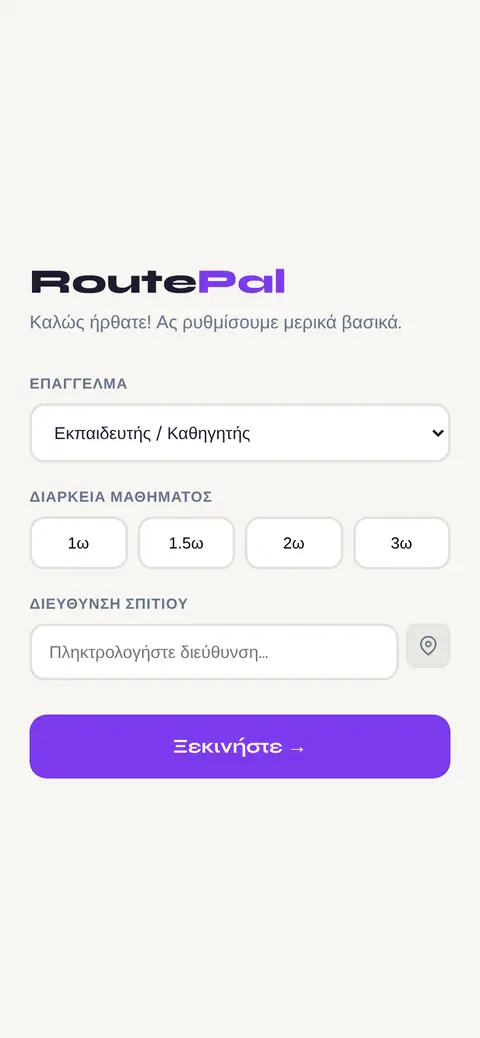
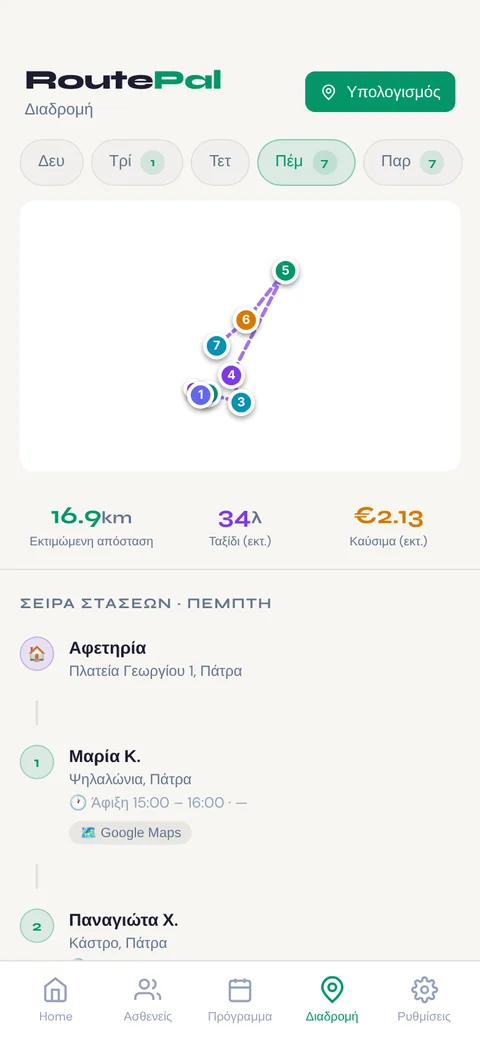
Πραγματικά demo screenshots για RoutePal και Cash Flow
Τα στιγμιότυπα βγήκαν τρέχοντας τις εφαρμογές με ρεαλιστικά δεδομένα:
RoutePal με 10 επισκέψεις σε γειτονιές της Πάτρας (διαδρομή Πέμπτης,
16,9 km) και Cash Flow με έναν μήνα ραντεβού, εσόδων και εξόδων.

Claude-Session: https://claude.ai/code/session_01VayiiR8T1JaV2HPcqadAVL

diff --git a/el/work.html b/el/work.html
@@ -22,7 +22,7 @@
 <link rel="icon" type="image/svg+xml" href="../logo/pg-icon.svg">
 <link rel="apple-touch-icon" href="../assets/apple-touch-icon.png">
 <link rel="preload" href="../assets/fonts/notodisplay-greek-var.woff2" as="font" type="font/woff2" crossorigin>
-<link rel="stylesheet" href="../assets/site.css?v=4">
+<link rel="stylesheet" href="../assets/site.css?v=5">
 </head>
 <body>
 <a class="skip" href="#main">Μετάβαση στο περιεχόμενο</a>
@@ -37,11 +37,11 @@
 <nav class="nav" aria-label="Main"><a href="./" class="hide-s">Αρχική</a><a href="services.html">Υπηρεσίες</a><a href="work.html" aria-current="page">Έργα</a><a href="studio.html">Studio</a><a href="#contact" class="hide-s">Επικοινωνία</a><a class="lang" href="../work.html" hreflang="en" lang="en">EN</a></nav>
 </div></header>
 <main id="main">
-<section class="intro"><div class="wrap"><span class="eyebrow">Έργα</span><h1 class="h1">Τι <em>φτιάξαμε.</em></h1><p class="lead">Κάθε έργο ξεκίνησε από ένα πραγματικό πρόβλημα. Εδώ είναι τι κάνει και πώς.</p></div></section><section><div class="wrap"><article class="proj" id="routepal"><div class="pshot"><img src="../assets/work/routepal.webp" width="480" height="1038" alt="RoutePal" loading="lazy" decoding="async"></div>
-<div class="pbody"><span class="eyebrow">Βελτιστοποίηση διαδρομών</span><h2 class="h2">RoutePal</h2><span class="status live">Live</span><p class="lead">Οργανώνει μια ολόκληρη εβδομάδα ραντεβού και επισκέψεων: ποιος, πότε, με ποια σειρά, με πραγματικούς χρόνους δρόμου. Από κάτω τρέχει μηχανή βελτιστοποίησης πολλών φάσεων για δρομολόγηση με χρονικά παράθυρα (VRPTW).</p><div class="stats"><div><b>9</b><span>φάσεις βελτιστοποίησης</span></div><div><b>175</b><span>αυτόματα τεστ</span></div><div><b>4</b><span>γλώσσες</span></div></div><ul class="plist"><li>Εβδομαδιαίο πρόγραμμα ή μία μέρα, με βάση τα διαθέσιμα διαστήματα κάθε πελάτη και σπαστά ωράρια</li><li>Μηχανή πολλών φάσεων: backtracking αναζήτηση περιορισμών, simulated annealing και large neighborhood search (LNS)</li><li>Πραγματικές αποστάσεις και χρόνοι δρόμου (OSRM/HERE), με κίνηση ώρας αιχμής ανά ραντεβού</li><li>Μετρημένο στα VRPTW προβλήματα του Solomon απέναντι στις καλύτερες δημοσιευμένες λύσεις και σε ακριβή βέλτιστα (Held-Karp)</li><li>Ομαδικά ραντεβού και ζευγάρια, χάρτης με πλοήγηση, εξαγωγή PDF, εγκατάσταση στο κινητό</li></ul><div class="tags"><span>VRPTW</span><span>Simulated annealing</span><span>LNS</span><span>PWA</span></div><p><a class="btn line" href="https://pangeo57-debug.github.io/routiq/routiq.html" target="_blank" rel="noopener">Δείτε το live <i aria-hidden="true">↗</i></a></p></div></article><article class="proj" id="surplo"><div class="pshot"><img src="../assets/work/surplo.webp" width="480" height="1038" alt="Surplo" loading="lazy" decoding="async"></div>
-<div class="pbody"><span class="eyebrow">Αγορά B2B</span><h2 class="h2">Surplo</h2><span class="status">Σε ανάπτυξη · demo κατόπιν αιτήματος</span><p class="lead">Αγορά όπου μικρές επιχειρήσεις πουλάνε πλεονάζον και αδιάθετο απόθεμα σε άλλες επιχειρήσεις, με την πληρωμή σε escrow μέχρι να φτάσει το εμπόρευμα.</p><ul class="plist"><li>Μόνιμα αιτήματα αγοράς: ο αγοραστής δηλώνει τι θέλει, ο πωλητής το καλύπτει με ένα κλικ</li><li>Προσφορές και αντιπροσφορές, μετά πληρωμή σε escrow (κάρτα, Apple/Google Pay, PayPal, SEPA)</li><li>Ο πωλητής πληρώνεται μόνο όταν ο αγοραστής επιβεβαιώσει την παραλαβή· οι διαφορές πάνε σε διαχειριστή</li><li>Επαλήθευση επιχειρήσεων, αξιολογήσεις και ροή παραγγελιών με πλήρες ιστορικό</li><li>Web εφαρμογή και native εφαρμογή iOS (Capacitor)</li></ul><div class="tags"><span>Next.js</span><span>Stripe Connect</span><span>Postgres</span><span>iOS</span></div></div></article><article class="proj" id="cashflow"><div class="pshot"><img src="../assets/work/cashflow.webp" width="480" height="1038" alt="Cash Flow" loading="lazy" decoding="async"></div>
-<div class="pbody"><span class="eyebrow">Mini app</span><h2 class="h2">Cash Flow</h2><span class="status">Ιδιωτική εφαρμογή · demo κατόπιν αιτήματος</span><p class="lead">Εφαρμογή προσωπικών οικονομικών: έσοδα και έξοδα με δύο πατήματα, καθαρά στατιστικά και δεδομένα που μένουν στο κινητό, ακόμα και offline.</p><ul class="plist"><li>Έσοδα και έξοδα με δύο πατήματα, ανά κατηγορία</li><li>Επαναλαμβανόμενες πληρωμές, μηνιαίοι στόχοι και budgets</li><li>Στατιστικά και έξυπνες παρατηρήσεις</li><li>Λειτουργεί offline· τα δεδομένα μένουν στη συσκευή, με αντίγραφο JSON</li><li>Προαιρετικός συγχρονισμός μέσω Supabase</li></ul><div class="tags"><span>React</span><span>TypeScript</span><span>PWA</span></div></div></article><article class="proj" id="cooking"><div class="pshot"><img src="../assets/work/cooking.webp" width="480" height="1038" alt="Cooking Made with Love" loading="lazy" decoding="async"></div>
-<div class="pbody"><span class="eyebrow">Ιστοσελίδα</span><h2 class="h2">Cooking Made with Love</h2><span class="status live">Live</span><p class="lead">Ιστοσελίδα για οικιακό φούρνο που πουλάει χειροποίητο ψωμί και γλυκά σε λαϊκή αγορά στο Michigan.</p><ul class="plist"><li>Κατάλογος προϊόντων: ψωμιά, γλυκά και αρτοσκευάσματα</li><li>Τοποθεσία της αγοράς με σύνδεσμο στο Google Maps</li><li>Εικόνα προεπισκόπησης για κοινοποίηση στα social</li><li>Ανεβαίνει αυτόματα σε κάθε αλλαγή (Netlify)</li></ul><div class="tags"><span>HTML · CSS · JS</span><span>SEO</span><span>Netlify</span></div><p><a class="btn line" href="https://cookingmadewithlove.netlify.app/" target="_blank" rel="noopener">Δείτε το live <i aria-hidden="true">↗</i></a></p></div></article><article class="proj" id="mathdecoded"><div class="pshot"><img src="../assets/work/mathdecoded.webp" width="480" height="1038" alt="MathDecoded" loading="lazy" decoding="async"></div>
+<section class="intro"><div class="wrap"><span class="eyebrow">Έργα</span><h1 class="h1">Τι <em>φτιάξαμε.</em></h1><p class="lead">Κάθε έργο ξεκίνησε από ένα πραγματικό πρόβλημα. Εδώ είναι τι κάνει και πώς.</p></div></section><section><div class="wrap"><article class="proj" id="routepal"><div class="pshot"><img src="../assets/work/routepal.webp?v=5" width="480" height="1038" alt="RoutePal" loading="lazy" decoding="async"></div>
+<div class="pbody"><span class="eyebrow">Βελτιστοποίηση διαδρομών</span><h2 class="h2">RoutePal</h2><span class="status live">Live</span><p class="lead">Οργανώνει μια ολόκληρη εβδομάδα ραντεβού και επισκέψεων: ποιος, πότε, με ποια σειρά, με πραγματικούς χρόνους δρόμου. Από κάτω τρέχει μηχανή βελτιστοποίησης πολλών φάσεων για δρομολόγηση με χρονικά παράθυρα (VRPTW).</p><div class="stats"><div><b>9</b><span>φάσεις βελτιστοποίησης</span></div><div><b>175</b><span>αυτόματα τεστ</span></div><div><b>4</b><span>γλώσσες</span></div></div><ul class="plist"><li>Εβδομαδιαίο πρόγραμμα ή μία μέρα, με βάση τα διαθέσιμα διαστήματα κάθε πελάτη και σπαστά ωράρια</li><li>Μηχανή πολλών φάσεων: backtracking αναζήτηση περιορισμών, simulated annealing και large neighborhood search (LNS)</li><li>Πραγματικές αποστάσεις και χρόνοι δρόμου (OSRM/HERE), με κίνηση ώρας αιχμής ανά ραντεβού</li><li>Μετρημένο στα VRPTW προβλήματα του Solomon απέναντι στις καλύτερες δημοσιευμένες λύσεις και σε ακριβή βέλτιστα (Held-Karp)</li><li>Ομαδικά ραντεβού και ζευγάρια, χάρτης με πλοήγηση, εξαγωγή PDF, εγκατάσταση στο κινητό</li></ul><div class="tags"><span>VRPTW</span><span>Simulated annealing</span><span>LNS</span><span>PWA</span></div><p><a class="btn line" href="https://pangeo57-debug.github.io/routiq/routiq.html" target="_blank" rel="noopener">Δείτε το live <i aria-hidden="true">↗</i></a></p></div></article><article class="proj" id="surplo"><div class="pshot"><img src="../assets/work/surplo.webp?v=5" width="480" height="1038" alt="Surplo" loading="lazy" decoding="async"></div>
+<div class="pbody"><span class="eyebrow">Αγορά B2B</span><h2 class="h2">Surplo</h2><span class="status">Σε ανάπτυξη · demo κατόπιν αιτήματος</span><p class="lead">Αγορά όπου μικρές επιχειρήσεις πουλάνε πλεονάζον και αδιάθετο απόθεμα σε άλλες επιχειρήσεις, με την πληρωμή σε escrow μέχρι να φτάσει το εμπόρευμα.</p><ul class="plist"><li>Μόνιμα αιτήματα αγοράς: ο αγοραστής δηλώνει τι θέλει, ο πωλητής το καλύπτει με ένα κλικ</li><li>Προσφορές και αντιπροσφορές, μετά πληρωμή σε escrow (κάρτα, Apple/Google Pay, PayPal, SEPA)</li><li>Ο πωλητής πληρώνεται μόνο όταν ο αγοραστής επιβεβαιώσει την παραλαβή· οι διαφορές πάνε σε διαχειριστή</li><li>Επαλήθευση επιχειρήσεων, αξιολογήσεις και ροή παραγγελιών με πλήρες ιστορικό</li><li>Web εφαρμογή και native εφαρμογή iOS (Capacitor)</li></ul><div class="tags"><span>Next.js</span><span>Stripe Connect</span><span>Postgres</span><span>iOS</span></div></div></article><article class="proj" id="cashflow"><div class="pshot"><img src="../assets/work/cashflow.webp?v=5" width="480" height="1038" alt="Cash Flow" loading="lazy" decoding="async"></div>
+<div class="pbody"><span class="eyebrow">Mini app</span><h2 class="h2">Cash Flow</h2><span class="status">Ιδιωτική εφαρμογή · demo κατόπιν αιτήματος</span><p class="lead">Εφαρμογή προσωπικών οικονομικών: έσοδα και έξοδα με δύο πατήματα, καθαρά στατιστικά και δεδομένα που μένουν στο κινητό, ακόμα και offline.</p><ul class="plist"><li>Έσοδα και έξοδα με δύο πατήματα, ανά κατηγορία</li><li>Επαναλαμβανόμενες πληρωμές, μηνιαίοι στόχοι και budgets</li><li>Στατιστικά και έξυπνες παρατηρήσεις</li><li>Λειτουργεί offline· τα δεδομένα μένουν στη συσκευή, με αντίγραφο JSON</li><li>Προαιρετικός συγχρονισμός μέσω Supabase</li></ul><div class="tags"><span>React</span><span>TypeScript</span><span>PWA</span></div></div></article><article class="proj" id="cooking"><div class="pshot"><img src="../assets/work/cooking.webp?v=5" width="480" height="1038" alt="Cooking Made with Love" loading="lazy" decoding="async"></div>
+<div class="pbody"><span class="eyebrow">Ιστοσελίδα</span><h2 class="h2">Cooking Made with Love</h2><span class="status live">Live</span><p class="lead">Ιστοσελίδα για οικιακό φούρνο που πουλάει χειροποίητο ψωμί και γλυκά σε λαϊκή αγορά στο Michigan.</p><ul class="plist"><li>Κατάλογος προϊόντων: ψωμιά, γλυκά και αρτοσκευάσματα</li><li>Τοποθεσία της αγοράς με σύνδεσμο στο Google Maps</li><li>Εικόνα προεπισκόπησης για κοινοποίηση στα social</li><li>Ανεβαίνει αυτόματα σε κάθε αλλαγή (Netlify)</li></ul><div class="tags"><span>HTML · CSS · JS</span><span>SEO</span><span>Netlify</span></div><p><a class="btn line" href="https://cookingmadewithlove.netlify.app/" target="_blank" rel="noopener">Δείτε το live <i aria-hidden="true">↗</i></a></p></div></article><article class="proj" id="mathdecoded"><div class="pshot"><img src="../assets/work/mathdecoded.webp?v=5" width="480" height="1038" alt="MathDecoded" loading="lazy" decoding="async"></div>
 <div class="pbody"><span class="eyebrow">Ιστοσελίδα + εφαρμογή</span><h2 class="h2">MathDecoded</h2><span class="status live">Live</span><p class="lead">Σελίδα για ιδιαίτερα μαθήματα μαθηματικών (SAT και Πανελλήνιες) με ασκήσεις, γρίφους και quiz, που εγκαθίσταται στο κινητό.</p><ul class="plist"><li>Ασκήσεις, γρίφοι και quiz που κρατούν την πρόοδο</li><li>Εγκαθίσταται στο κινητό σαν εφαρμογή (PWA)</li><li>Ταυτότητα βασισμένη στο υπάρχον Instagram</li><li>Σελίδες πολιτικής απορρήτου και όρων χρήσης</li></ul><div class="tags"><span>PWA</span><span>HTML · CSS · JS</span><span>GitHub Pages</span></div><p><a class="btn line" href="https://pangeo57-debug.github.io/mathdecoded/" target="_blank" rel="noopener">Δείτε το live <i aria-hidden="true">↗</i></a></p></div></article></div></section>
 </main>
 <section class="contact" id="contact" aria-labelledby="c-h"><div class="wrap">
@@ -56,6 +56,6 @@
 <button class="btn" type="submit"><span>Αποστολή μηνύματος</span> <i aria-hidden="true">→</i></button><p class="note" role="status" aria-live="polite"></p>
 </form></div></section>
 <footer class="ft"><div class="wrap"><span>© 2026 PG AI Solutions · Πάτρα, Ελλάδα</span><nav aria-label="Footer"><a href="services.html">Υπηρεσίες</a><a href="work.html">Έργα</a><a href="studio.html">Studio</a><a href="privacy.html">Πολιτική απορρήτου</a></nav></div></footer>
-<script src="../assets/site.js?v=4" defer></script>
+<script src="../assets/site.js?v=5" defer></script>
 </body>
 </html>

diff --git a/work.html b/work.html
@@ -22,7 +22,7 @@
 <link rel="icon" type="image/svg+xml" href="logo/pg-icon.svg">
 <link rel="apple-touch-icon" href="assets/apple-touch-icon.png">
 <link rel="preload" href="assets/fonts/notodisplay-latin-var.woff2" as="font" type="font/woff2" crossorigin>
-<link rel="stylesheet" href="assets/site.css?v=4">
+<link rel="stylesheet" href="assets/site.css?v=5">
 </head>
 <body>
 <a class="skip" href="#main">Skip to content</a>
@@ -37,11 +37,11 @@
 <nav class="nav" aria-label="Main"><a href="./" class="hide-s">Home</a><a href="services.html">Services</a><a href="work.html" aria-current="page">Work</a><a href="studio.html">Studio</a><a href="#contact" class="hide-s">Contact</a><a class="lang" href="el/work.html" hreflang="el" lang="el">ΕΛ</a></nav>
 </div></header>
 <main id="main">
-<section class="intro"><div class="wrap"><span class="eyebrow">Work</span><h1 class="h1">Things we <em>built.</em></h1><p class="lead">Each project started as a real problem. Here is what it does and how.</p></div></section><section><div class="wrap"><article class="proj" id="routepal"><div class="pshot"><img src="assets/work/routepal.webp" width="480" height="1038" alt="RoutePal" loading="lazy" decoding="async"></div>
-<div class="pbody"><span class="eyebrow">Route optimization</span><h2 class="h2">RoutePal</h2><span class="status live">Live</span><p class="lead">Plans a whole week of appointments and visits: who, when and in what order, using real travel times. Underneath runs a multi-phase optimization engine for routing with time windows (VRPTW).</p><div class="stats"><div><b>9</b><span>optimization phases</span></div><div><b>175</b><span>automated tests</span></div><div><b>4</b><span>languages</span></div></div><ul class="plist"><li>Weekly or single-day plans, built from each client's available slots and split shifts</li><li>Multi-phase engine: constraint backtracking, simulated annealing and large neighbourhood search (LNS)</li><li>Real distances and drive times (OSRM/HERE), with rush-hour traffic per appointment</li><li>Benchmarked on Solomon VRPTW instances against best published and exact (Held-Karp) optima</li><li>Group and paired visits, map with navigation, PDF export, installs on the phone</li></ul><div class="tags"><span>VRPTW</span><span>Simulated annealing</span><span>LNS</span><span>PWA</span></div><p><a class="btn line" href="https://pangeo57-debug.github.io/routiq/routiq.html" target="_blank" rel="noopener">Visit live site <i aria-hidden="true">↗</i></a></p></div></article><article class="proj" id="surplo"><div class="pshot"><img src="assets/work/surplo.webp" width="480" height="1038" alt="Surplo" loading="lazy" decoding="async"></div>
-<div class="pbody"><span class="eyebrow">B2B marketplace</span><h2 class="h2">Surplo</h2><span class="status">In development · demo on request</span><p class="lead">A marketplace where small businesses sell surplus and unsold stock to other businesses, with payment held in escrow until the goods arrive.</p><ul class="plist"><li>Standing buy requests: the buyer says what they need, a seller fills it in one click</li><li>Offers and counter-offers, then escrow payment (card, Apple/Google Pay, PayPal, SEPA)</li><li>The seller is paid only when the buyer confirms delivery; disputes go to an admin</li><li>Business verification, reviews and an order flow with full history</li><li>Web app plus a native iOS app (Capacitor)</li></ul><div class="tags"><span>Next.js</span><span>Stripe Connect</span><span>Postgres</span><span>iOS</span></div></div></article><article class="proj" id="cashflow"><div class="pshot"><img src="assets/work/cashflow.webp" width="480" height="1038" alt="Cash Flow" loading="lazy" decoding="async"></div>
-<div class="pbody"><span class="eyebrow">Mini app</span><h2 class="h2">Cash Flow</h2><span class="status">Private app · demo on request</span><p class="lead">A personal finance app: income and expenses in two taps, clear statistics, and data that stays on the phone, even offline.</p><ul class="plist"><li>Income and expenses in two taps, by category</li><li>Recurring payments, monthly goals and budgets</li><li>Statistics and smart insights</li><li>Works offline; data stays on the device, with a JSON backup</li><li>Optional sync through Supabase</li></ul><div class="tags"><span>React</span><span>TypeScript</span><span>PWA</span></div></div></article><article class="proj" id="cooking"><div class="pshot"><img src="assets/work/cooking.webp" width="480" height="1038" alt="Cooking Made with Love" loading="lazy" decoding="async"></div>
-<div class="pbody"><span class="eyebrow">Website</span><h2 class="h2">Cooking Made with Love</h2><span class="status live">Live</span><p class="lead">A website for a home bakery that sells handmade bread and pastries at a farmers' market in Michigan.</p><ul class="plist"><li>Product catalogue: breads, sweets and pastries</li><li>Market location with a Google Maps link</li><li>Share image for social media</li><li>Deploys automatically on every change (Netlify)</li></ul><div class="tags"><span>HTML · CSS · JS</span><span>SEO</span><span>Netlify</span></div><p><a class="btn line" href="https://cookingmadewithlove.netlify.app/" target="_blank" rel="noopener">Visit live site <i aria-hidden="true">↗</i></a></p></div></article><article class="proj" id="mathdecoded"><div class="pshot"><img src="assets/work/mathdecoded.webp" width="480" height="1038" alt="MathDecoded" loading="lazy" decoding="async"></div>
+<section class="intro"><div class="wrap"><span class="eyebrow">Work</span><h1 class="h1">Things we <em>built.</em></h1><p class="lead">Each project started as a real problem. Here is what it does and how.</p></div></section><section><div class="wrap"><article class="proj" id="routepal"><div class="pshot"><img src="assets/work/routepal.webp?v=5" width="480" height="1038" alt="RoutePal" loading="lazy" decoding="async"></div>
+<div class="pbody"><span class="eyebrow">Route optimization</span><h2 class="h2">RoutePal</h2><span class="status live">Live</span><p class="lead">Plans a whole week of appointments and visits: who, when and in what order, using real travel times. Underneath runs a multi-phase optimization engine for routing with time windows (VRPTW).</p><div class="stats"><div><b>9</b><span>optimization phases</span></div><div><b>175</b><span>automated tests</span></div><div><b>4</b><span>languages</span></div></div><ul class="plist"><li>Weekly or single-day plans, built from each client's available slots and split shifts</li><li>Multi-phase engine: constraint backtracking, simulated annealing and large neighbourhood search (LNS)</li><li>Real distances and drive times (OSRM/HERE), with rush-hour traffic per appointment</li><li>Benchmarked on Solomon VRPTW instances against best published and exact (Held-Karp) optima</li><li>Group and paired visits, map with navigation, PDF export, installs on the phone</li></ul><div class="tags"><span>VRPTW</span><span>Simulated annealing</span><span>LNS</span><span>PWA</span></div><p><a class="btn line" href="https://pangeo57-debug.github.io/routiq/routiq.html" target="_blank" rel="noopener">Visit live site <i aria-hidden="true">↗</i></a></p></div></article><article class="proj" id="surplo"><div class="pshot"><img src="assets/work/surplo.webp?v=5" width="480" height="1038" alt="Surplo" loading="lazy" decoding="async"></div>
+<div class="pbody"><span class="eyebrow">B2B marketplace</span><h2 class="h2">Surplo</h2><span class="status">In development · demo on request</span><p class="lead">A marketplace where small businesses sell surplus and unsold stock to other businesses, with payment held in escrow until the goods arrive.</p><ul class="plist"><li>Standing buy requests: the buyer says what they need, a seller fills it in one click</li><li>Offers and counter-offers, then escrow payment (card, Apple/Google Pay, PayPal, SEPA)</li><li>The seller is paid only when the buyer confirms delivery; disputes go to an admin</li><li>Business verification, reviews and an order flow with full history</li><li>Web app plus a native iOS app (Capacitor)</li></ul><div class="tags"><span>Next.js</span><span>Stripe Connect</span><span>Postgres</span><span>iOS</span></div></div></article><article class="proj" id="cashflow"><div class="pshot"><img src="assets/work/cashflow.webp?v=5" width="480" height="1038" alt="Cash Flow" loading="lazy" decoding="async"></div>
+<div class="pbody"><span class="eyebrow">Mini app</span><h2 class="h2">Cash Flow</h2><span class="status">Private app · demo on request</span><p class="lead">A personal finance app: income and expenses in two taps, clear statistics, and data that stays on the phone, even offline.</p><ul class="plist"><li>Income and expenses in two taps, by category</li><li>Recurring payments, monthly goals and budgets</li><li>Statistics and smart insights</li><li>Works offline; data stays on the device, with a JSON backup</li><li>Optional sync through Supabase</li></ul><div class="tags"><span>React</span><span>TypeScript</span><span>PWA</span></div></div></article><article class="proj" id="cooking"><div class="pshot"><img src="assets/work/cooking.webp?v=5" width="480" height="1038" alt="Cooking Made with Love" loading="lazy" decoding="async"></div>
+<div class="pbody"><span class="eyebrow">Website</span><h2 class="h2">Cooking Made with Love</h2><span class="status live">Live</span><p class="lead">A website for a home bakery that sells handmade bread and pastries at a farmers' market in Michigan.</p><ul class="plist"><li>Product catalogue: breads, sweets and pastries</li><li>Market location with a Google Maps link</li><li>Share image for social media</li><li>Deploys automatically on every change (Netlify)</li></ul><div class="tags"><span>HTML · CSS · JS</span><span>SEO</span><span>Netlify</span></div><p><a class="btn line" href="https://cookingmadewithlove.netlify.app/" target="_blank" rel="noopener">Visit live site <i aria-hidden="true">↗</i></a></p></div></article><article class="proj" id="mathdecoded"><div class="pshot"><img src="assets/work/mathdecoded.webp?v=5" width="480" height="1038" alt="MathDecoded" loading="lazy" decoding="async"></div>
 <div class="pbody"><span class="eyebrow">Website + app</span><h2 class="h2">MathDecoded</h2><span class="status live">Live</span><p class="lead">A site for private maths tutoring (SAT and Greek national exams) with exercises, puzzles and quizzes, installable on the phone.</p><ul class="plist"><li>Exercises, puzzles and quizzes that keep progress</li><li>Installs on the phone like an app (PWA)</li><li>Identity built on the existing Instagram</li><li>Privacy policy and terms of use pages</li></ul><div class="tags"><span>PWA</span><span>HTML · CSS · JS</span><span>GitHub Pages</span></div><p><a class="btn line" href="https://pangeo57-debug.github.io/mathdecoded/" target="_blank" rel="noopener">Visit live site <i aria-hidden="true">↗</i></a></p></div></article></div></section>
 </main>
 <section class="contact" id="contact" aria-labelledby="c-h"><div class="wrap">
@@ -56,6 +56,6 @@
 <button class="btn" type="submit"><span>Send message</span> <i aria-hidden="true">→</i></button><p class="note" role="status" aria-live="polite"></p>
 </form></div></section>
 <footer class="ft"><div class="wrap"><span>© 2026 PG AI Solutions · Patras, Greece</span><nav aria-label="Footer"><a href="services.html">Services</a><a href="work.html">Work</a><a href="studio.html">Studio</a><a href="privacy.html">Privacy policy</a></nav></div></footer>
-<script src="assets/site.js?v=4" defer></script>
+<script src="assets/site.js?v=5" defer></script>
 </body>
 </html>

diff --git a/el/index.html b/el/index.html
@@ -23,7 +23,7 @@
 <link rel="icon" type="image/svg+xml" href="../logo/pg-icon.svg">
 <link rel="apple-touch-icon" href="../assets/apple-touch-icon.png">
 <link rel="preload" href="../assets/fonts/notodisplay-greek-var.woff2" as="font" type="font/woff2" crossorigin>
-<link rel="stylesheet" href="../assets/site.css?v=4">
+<link rel="stylesheet" href="../assets/site.css?v=5">
 </head>
 <body>
 <a class="skip" href="#main">Μετάβαση στο περιεχόμενο</a>
@@ -43,7 +43,7 @@
 <div class="hero-act"><a class="txtlink" href="work.html">Δες τα έργα</a><a class="btn line" href="#contact">Ξεκινάμε <i aria-hidden="true">→</i></a></div>
 <div class="meta" aria-hidden="true"><span><b data-km>0.0</b> km</span><span><b data-gain>…</b> συντομότερη</span></div></div></div></section>
 <section class="sec"><div class="wrap"><div class="sec-head"><span class="eyebrow">Τι κάνουμε</span><h2 class="h2">Τρία πράγματα, <em>σωστά.</em></h2><p class="lead">Από μια γρήγορη ιστοσελίδα μέχρι λογισμικό που λύνει ένα δύσκολο πρόβλημα προγραμματισμού.</p></div><div class="rows"><a class="row" href="services.html#s1"><span class="n">01</span><h3 class="h3">Ιστοσελίδες</h3><p>Γρήγορες, custom ιστοσελίδες που παρουσιάζουν σωστά την επιχείρηση και βρίσκονται εύκολα στο Google.</p><span class="go" aria-hidden="true">→</span></a><a class="row" href="services.html#s2"><span class="n">02</span><h3 class="h3">Custom mini apps</h3><p>Μικρές, στοχευμένες εφαρμογές φτιαγμένες γύρω από τον τρόπο που δουλεύει ένας άνθρωπος ή μια ομάδα.</p><span class="go" aria-hidden="true">→</span></a><a class="row" href="services.html#s3"><span class="n">03</span><h3 class="h3">Λογισμικό & βελτιστοποίηση</h3><p>Εργαλεία προγραμματισμού, δρομολόγησης και αποφάσεων, χτισμένα σε σωστούς αλγορίθμους.</p><span class="go" aria-hidden="true">→</span></a></div></div></section>
-<section class="sec alt"><div class="wrap"><div class="sec-head"><span class="eyebrow">Επιλεγμένα έργα</span><h2 class="h2">Πέντε έργα. <em>Μία μέθοδος.</em></h2><p class="lead">Εφαρμογές και ιστοσελίδες σε λειτουργία και σε ανάπτυξη.</p></div><div class="strip"><a class="wcard" href="work.html#routepal"><span class="shot"><img src="../assets/work/routepal.webp" width="480" height="1038" alt="" loading="lazy" decoding="async"></span><small>Βελτιστοποίηση διαδρομών</small><b>RoutePal</b></a><a class="wcard" href="work.html#surplo"><span class="shot"><img src="../assets/work/surplo.webp" width="480" height="1038" alt="" loading="lazy" decoding="async"></span><small>Αγορά B2B</small><b>Surplo</b></a><a class="wcard" href="work.html#cashflow"><span class="shot"><img src="../assets/work/cashflow.webp" width="480" height="1038" alt="" loading="lazy" decoding="async"></span><small>Mini app</small><b>Cash Flow</b></a><a class="wcard" href="work.html#cooking"><span class="shot"><img src="../assets/work/cooking.webp" width="480" height="1038" alt="" loading="lazy" decoding="async"></span><small>Ιστοσελίδα</small><b>Cooking Made with Love</b></a><a class="wcard" href="work.html#mathdecoded"><span class="shot"><img src="../assets/work/mathdecoded.webp" width="480" height="1038" alt="" loading="lazy" decoding="async"></span><small>Ιστοσελίδα + εφαρμογή</small><b>MathDecoded</b></a></div><p style="margin-top:32px"><a class="btn line" href="work.html">Όλα τα έργα <i aria-hidden="true">→</i></a></p></div></section>
+<section class="sec alt"><div class="wrap"><div class="sec-head"><span class="eyebrow">Επιλεγμένα έργα</span><h2 class="h2">Πέντε έργα. <em>Μία μέθοδος.</em></h2><p class="lead">Εφαρμογές και ιστοσελίδες σε λειτουργία και σε ανάπτυξη.</p></div><div class="strip"><a class="wcard" href="work.html#routepal"><span class="shot"><img src="../assets/work/routepal.webp?v=5" width="480" height="1038" alt="" loading="lazy" decoding="async"></span><small>Βελτιστοποίηση διαδρομών</small><b>RoutePal</b></a><a class="wcard" href="work.html#surplo"><span class="shot"><img src="../assets/work/surplo.webp?v=5" width="480" height="1038" alt="" loading="lazy" decoding="async"></span><small>Αγορά B2B</small><b>Surplo</b></a><a class="wcard" href="work.html#cashflow"><span class="shot"><img src="../assets/work/cashflow.webp?v=5" width="480" height="1038" alt="" loading="lazy" decoding="async"></span><small>Mini app</small><b>Cash Flow</b></a><a class="wcard" href="work.html#cooking"><span class="shot"><img src="../assets/work/cooking.webp?v=5" width="480" height="1038" alt="" loading="lazy" decoding="async"></span><small>Ιστοσελίδα</small><b>Cooking Made with Love</b></a><a class="wcard" href="work.html#mathdecoded"><span class="shot"><img src="../assets/work/mathdecoded.webp?v=5" width="480" height="1038" alt="" loading="lazy" decoding="async"></span><small>Ιστοσελίδα + εφαρμογή</small><b>MathDecoded</b></a></div><p style="margin-top:32px"><a class="btn line" href="work.html">Όλα τα έργα <i aria-hidden="true">→</i></a></p></div></section>
 <section class="sec"><div class="wrap"><div class="sec-head"><span class="eyebrow">Πώς δουλεύουμε</span><h2 class="h2">Μια διαδικασία σαν <em>βρόχος βελτιστοποίησης.</em></h2><p class="lead">Κάθε στάδιο τροφοδοτεί το επόμενο και ελέγχεται απέναντι στο πραγματικό πρόβλημα πριν προχωρήσουμε.</p></div><div class="steps"><div class="step"><span class="n">01</span><h3 class="h3">Ανακάλυψη</h3><p>Χαρτογραφούμε τους χρήστες, τους περιορισμούς, τα δεδομένα και τον πραγματικό στόχο, πριν από σχεδιασμό ή κώδικα.</p></div><div class="step"><span class="n">02</span><h3 class="h3">Αρχιτεκτονική</h3><p>Σχεδιάζουμε μαζί το μοντέλο δεδομένων, τον αλγόριθμο και τη διεπαφή, ώστε η υλοποίηση να μην παλεύει με τον εαυτό της αργότερα.</p></div><div class="step"><span class="n">03</span><h3 class="h3">Υλοποίηση</h3><p>Παραδίδουμε σε εστιασμένες επαναλήψεις, δοκιμάζοντας σε πραγματικά σενάρια, όχι μόνο στην ιδανική περίπτωση.</p></div><div class="step"><span class="n">04</span><h3 class="h3">Έναρξη & βελτίωση</h3><p>Δημοσιεύουμε, παρακολουθούμε την πραγματική χρήση και βελτιώνουμε. Το λογισμικό πρέπει να βελτιώνεται και μετά την παράδοση.</p></div></div></div></section>
 
 </main>
@@ -59,6 +59,6 @@
 <button class="btn" type="submit"><span>Αποστολή μηνύματος</span> <i aria-hidden="true">→</i></button><p class="note" role="status" aria-live="polite"></p>
 </form></div></section>
 <footer class="ft"><div class="wrap"><span>© 2026 PG AI Solutions · Πάτρα, Ελλάδα</span><nav aria-label="Footer"><a href="services.html">Υπηρεσίες</a><a href="work.html">Έργα</a><a href="studio.html">Studio</a><a href="privacy.html">Πολιτική απορρήτου</a></nav></div></footer>
-<script src="../assets/site.js?v=4" defer></script>
+<script src="../assets/site.js?v=5" defer></script>
 </body>
 </html>

diff --git a/index.html b/index.html
@@ -23,7 +23,7 @@
 <link rel="icon" type="image/svg+xml" href="logo/pg-icon.svg">
 <link rel="apple-touch-icon" href="assets/apple-touch-icon.png">
 <link rel="preload" href="assets/fonts/notodisplay-latin-var.woff2" as="font" type="font/woff2" crossorigin>
-<link rel="stylesheet" href="assets/site.css?v=4">
+<link rel="stylesheet" href="assets/site.css?v=5">
 </head>
 <body>
 <a class="skip" href="#main">Skip to content</a>
@@ -43,7 +43,7 @@
 <div class="hero-act"><a class="txtlink" href="work.html">See our work</a><a class="btn line" href="#contact">Start a project <i aria-hidden="true">→</i></a></div>
 <div class="meta" aria-hidden="true"><span><b data-km>0.0</b> km</span><span><b data-gain>…</b> shorter</span></div></div></div></section>
 <section class="sec"><div class="wrap"><div class="sec-head"><span class="eyebrow">What we do</span><h2 class="h2">Three things, <em>done properly.</em></h2><p class="lead">From a fast website to software that solves a hard scheduling problem.</p></div><div class="rows"><a class="row" href="services.html#s1"><span class="n">01</span><h3 class="h3">Websites</h3><p>Fast, custom websites that present the business properly and are easy to find on Google.</p><span class="go" aria-hidden="true">→</span></a><a class="row" href="services.html#s2"><span class="n">02</span><h3 class="h3">Custom mini apps</h3><p>Small, focused apps built around how one person or a team actually works.</p><span class="go" aria-hidden="true">→</span></a><a class="row" href="services.html#s3"><span class="n">03</span><h3 class="h3">Software & optimization</h3><p>Scheduling, routing and decision tools, built on the right algorithms.</p><span class="go" aria-hidden="true">→</span></a></div></div></section>
-<section class="sec alt"><div class="wrap"><div class="sec-head"><span class="eyebrow">Selected work</span><h2 class="h2">Five projects. <em>One method.</em></h2><p class="lead">Apps and websites in production and in development.</p></div><div class="strip"><a class="wcard" href="work.html#routepal"><span class="shot"><img src="assets/work/routepal.webp" width="480" height="1038" alt="" loading="lazy" decoding="async"></span><small>Route optimization</small><b>RoutePal</b></a><a class="wcard" href="work.html#surplo"><span class="shot"><img src="assets/work/surplo.webp" width="480" height="1038" alt="" loading="lazy" decoding="async"></span><small>B2B marketplace</small><b>Surplo</b></a><a class="wcard" href="work.html#cashflow"><span class="shot"><img src="assets/work/cashflow.webp" width="480" height="1038" alt="" loading="lazy" decoding="async"></span><small>Mini app</small><b>Cash Flow</b></a><a class="wcard" href="work.html#cooking"><span class="shot"><img src="assets/work/cooking.webp" width="480" height="1038" alt="" loading="lazy" decoding="async"></span><small>Website</small><b>Cooking Made with Love</b></a><a class="wcard" href="work.html#mathdecoded"><span class="shot"><img src="assets/work/mathdecoded.webp" width="480" height="1038" alt="" loading="lazy" decoding="async"></span><small>Website + app</small><b>MathDecoded</b></a></div><p style="margin-top:32px"><a class="btn line" href="work.html">All projects <i aria-hidden="true">→</i></a></p></div></section>
+<section class="sec alt"><div class="wrap"><div class="sec-head"><span class="eyebrow">Selected work</span><h2 class="h2">Five projects. <em>One method.</em></h2><p class="lead">Apps and websites in production and in development.</p></div><div class="strip"><a class="wcard" href="work.html#routepal"><span class="shot"><img src="assets/work/routepal.webp?v=5" width="480" height="1038" alt="" loading="lazy" decoding="async"></span><small>Route optimization</small><b>RoutePal</b></a><a class="wcard" href="work.html#surplo"><span class="shot"><img src="assets/work/surplo.webp?v=5" width="480" height="1038" alt="" loading="lazy" decoding="async"></span><small>B2B marketplace</small><b>Surplo</b></a><a class="wcard" href="work.html#cashflow"><span class="shot"><img src="assets/work/cashflow.webp?v=5" width="480" height="1038" alt="" loading="lazy" decoding="async"></span><small>Mini app</small><b>Cash Flow</b></a><a class="wcard" href="work.html#cooking"><span class="shot"><img src="assets/work/cooking.webp?v=5" width="480" height="1038" alt="" loading="lazy" decoding="async"></span><small>Website</small><b>Cooking Made with Love</b></a><a class="wcard" href="work.html#mathdecoded"><span class="shot"><img src="assets/work/mathdecoded.webp?v=5" width="480" height="1038" alt="" loading="lazy" decoding="async"></span><small>Website + app</small><b>MathDecoded</b></a></div><p style="margin-top:32px"><a class="btn line" href="work.html">All projects <i aria-hidden="true">→</i></a></p></div></section>
 <section class="sec"><div class="wrap"><div class="sec-head"><span class="eyebrow">How we work</span><h2 class="h2">A process built like <em>an optimization loop.</em></h2><p class="lead">Each stage feeds the next and is checked against the real problem before we move on.</p></div><div class="steps"><div class="step"><span class="n">01</span><h3 class="h3">Discover</h3><p>Map the users, constraints, data and the actual goal, before any design or code.</p></div><div class="step"><span class="n">02</span><h3 class="h3">Architect</h3><p>Design the data model, algorithm and interface together, so the build doesn't fight itself later.</p></div><div class="step"><span class="n">03</span><h3 class="h3">Build</h3><p>Deliver in focused iterations, tested on real scenarios, not just the happy path.</p></div><div class="step"><span class="n">04</span><h3 class="h3">Launch & tune</h3><p>Ship, watch real usage and keep improving. Software should get better after handover.</p></div></div></div></section>
 
 </main>
@@ -59,6 +59,6 @@
 <button class="btn" type="submit"><span>Send message</span> <i aria-hidden="true">→</i></button><p class="note" role="status" aria-live="polite"></p>
 </form></div></section>
 <footer class="ft"><div class="wrap"><span>© 2026 PG AI Solutions · Patras, Greece</span><nav aria-label="Footer"><a href="services.html">Services</a><a href="work.html">Work</a><a href="studio.html">Studio</a><a href="privacy.html">Privacy policy</a></nav></div></footer>
-<script src="assets/site.js?v=4" defer></script>
+<script src="assets/site.js?v=5" defer></script>
 </body>
 </html>

diff --git a/el/services.html b/el/services.html
@@ -22,7 +22,7 @@
 <link rel="icon" type="image/svg+xml" href="../logo/pg-icon.svg">
 <link rel="apple-touch-icon" href="../assets/apple-touch-icon.png">
 <link rel="preload" href="../assets/fonts/notodisplay-greek-var.woff2" as="font" type="font/woff2" crossorigin>
-<link rel="stylesheet" href="../assets/site.css?v=4">
+<link rel="stylesheet" href="../assets/site.css?v=5">
 </head>
 <body>
 <a class="skip" href="#main">Μετάβαση στο περιεχόμενο</a>
@@ -51,6 +51,6 @@
 <button class="btn" type="submit"><span>Αποστολή μηνύματος</span> <i aria-hidden="true">→</i></button><p class="note" role="status" aria-live="polite"></p>
 </form></div></section>
 <footer class="ft"><div class="wrap"><span>© 2026 PG AI Solutions · Πάτρα, Ελλάδα</span><nav aria-label="Footer"><a href="services.html">Υπηρεσίες</a><a href="work.html">Έργα</a><a href="studio.html">Studio</a><a href="privacy.html">Πολιτική απορρήτου</a></nav></div></footer>
-<script src="../assets/site.js?v=4" defer></script>
+<script src="../assets/site.js?v=5" defer></script>
 </body>
 </html>

diff --git a/el/studio.html b/el/studio.html
@@ -22,7 +22,7 @@
 <link rel="icon" type="image/svg+xml" href="../logo/pg-icon.svg">
 <link rel="apple-touch-icon" href="../assets/apple-touch-icon.png">
 <link rel="preload" href="../assets/fonts/notodisplay-greek-var.woff2" as="font" type="font/woff2" crossorigin>
-<link rel="stylesheet" href="../assets/site.css?v=4">
+<link rel="stylesheet" href="../assets/site.css?v=5">
 </head>
 <body>
 <a class="skip" href="#main">Μετάβαση στο περιεχόμενο</a>
@@ -51,6 +51,6 @@
 <button class="btn" type="submit"><span>Αποστολή μηνύματος</span> <i aria-hidden="true">→</i></button><p class="note" role="status" aria-live="polite"></p>
 </form></div></section>
 <footer class="ft"><div class="wrap"><span>© 2026 PG AI Solutions · Πάτρα, Ελλάδα</span><nav aria-label="Footer"><a href="services.html">Υπηρεσίες</a><a href="work.html">Έργα</a><a href="studio.html">Studio</a><a href="privacy.html">Πολιτική απορρήτου</a></nav></div></footer>
-<script src="../assets/site.js?v=4" defer></script>
+<script src="../assets/site.js?v=5" defer></script>
 </body>
 </html>

diff --git a/services.html b/services.html
@@ -22,7 +22,7 @@
 <link rel="icon" type="image/svg+xml" href="logo/pg-icon.svg">
 <link rel="apple-touch-icon" href="assets/apple-touch-icon.png">
 <link rel="preload" href="assets/fonts/notodisplay-latin-var.woff2" as="font" type="font/woff2" crossorigin>
-<link rel="stylesheet" href="assets/site.css?v=4">
+<link rel="stylesheet" href="assets/site.css?v=5">
 </head>
 <body>
 <a class="skip" href="#main">Skip to content</a>
@@ -51,6 +51,6 @@
 <button class="btn" type="submit"><span>Send message</span> <i aria-hidden="true">→</i></button><p class="note" role="status" aria-live="polite"></p>
 </form></div></section>
 <footer class="ft"><div class="wrap"><span>© 2026 PG AI Solutions · Patras, Greece</span><nav aria-label="Footer"><a href="services.html">Services</a><a href="work.html">Work</a><a href="studio.html">Studio</a><a href="privacy.html">Privacy policy</a></nav></div></footer>
-<script src="assets/site.js?v=4" defer></script>
+<script src="assets/site.js?v=5" defer></script>
 </body>
 </html>

diff --git a/studio.html b/studio.html
@@ -22,7 +22,7 @@
 <link rel="icon" type="image/svg+xml" href="logo/pg-icon.svg">
 <link rel="apple-touch-icon" href="assets/apple-touch-icon.png">
 <link rel="preload" href="assets/fonts/notodisplay-latin-var.woff2" as="font" type="font/woff2" crossorigin>
-<link rel="stylesheet" href="assets/site.css?v=4">
+<link rel="stylesheet" href="assets/site.css?v=5">
 </head>
 <body>
 <a class="skip" href="#main">Skip to content</a>
@@ -51,6 +51,6 @@
 <button class="btn" type="submit"><span>Send message</span> <i aria-hidden="true">→</i></button><p class="note" role="status" aria-live="polite"></p>
 </form></div></section>
 <footer class="ft"><div class="wrap"><span>© 2026 PG AI Solutions · Patras, Greece</span><nav aria-label="Footer"><a href="services.html">Services</a><a href="work.html">Work</a><a href="studio.html">Studio</a><a href="privacy.html">Privacy policy</a></nav></div></footer>
-<script src="assets/site.js?v=4" defer></script>
+<script src="assets/site.js?v=5" defer></script>
 </body>
 </html>

diff --git a/scripts/build.py b/scripts/build.py
@@ -4,7 +4,7 @@
 import json, os, html
 ROOT = os.path.dirname(os.path.dirname(os.path.abspath(__file__)))
 BASE = "https://pangeo57-debug.github.io/pg-ai-solutions"
-V = "4"
+V = "5"
 LOGO = open(os.path.join(ROOT, "logo/pg-mark.svg"), encoding="utf-8").read().replace(' role="img" aria-label="PG"', ' aria-hidden="true"').replace('id="pgr"', 'id="pgr-h"').replace("url(#pgr)", "url(#pgr-h)")
 PAGES = ["index", "services", "work", "studio"]
 
@@ -178,7 +178,7 @@ def strip(L, pre):
     out = []
     for pj in PROJECTS:
         d = pj[L]
-        out.append(f'<a class="wcard" href="work.html#{pj["id"]}"><span class="shot"><img src="{pre}assets/work/{pj["img"]}.webp" width="480" height="1038" alt="" loading="lazy" decoding="async"></span><small>{d["kind"]}</small><b>{d["name"]}</b></a>')
+        out.append(f'<a class="wcard" href="work.html#{pj["id"]}"><span class="shot"><img src="{pre}assets/work/{pj["img"]}.webp?v={V}" width="480" height="1038" alt="" loading="lazy" decoding="async"></span><small>{d["kind"]}</small><b>{d["name"]}</b></a>')
     return '<div class="strip">' + "".join(out) + "</div>"
 
 def steps(L):
@@ -211,7 +211,7 @@ def page_work(L, pre):
         st = ('<div class="stats">' + "".join(f'<div><b>{a}</b><span>{b}</span></div>' for a,b in d["stats"]) + '</div>') if d["stats"] else ""
         li = "".join(f"<li>{x}</li>" for x in d["pts"]); tg = "".join(f"<span>{x}</span>" for x in d["tags"])
         cls = "status live" if d["status"] == "Live" else "status"
-        out.append(f'''<article class="proj" id="{pj["id"]}"><div class="pshot"><img src="{pre}assets/work/{pj["img"]}.webp" width="480" height="1038" alt="{d["name"]}" loading="lazy" decoding="async"></div>
+        out.append(f'''<article class="proj" id="{pj["id"]}"><div class="pshot"><img src="{pre}assets/work/{pj["img"]}.webp?v={V}" width="480" height="1038" alt="{d["name"]}" loading="lazy" decoding="async"></div>
 <div class="pbody"><span class="eyebrow">{d["kind"]}</span><h2 class="h2">{d["name"]}</h2><span class="{cls}">{d["status"]}</span><p class="lead">{d["desc"]}</p>{st}<ul class="plist">{li}</ul><div class="tags">{tg}</div>{live}</div></article>''')
     return intro(t["work_intro"]) + f'<section><div class="wrap">{"".join(out)}</div></section>'
 
